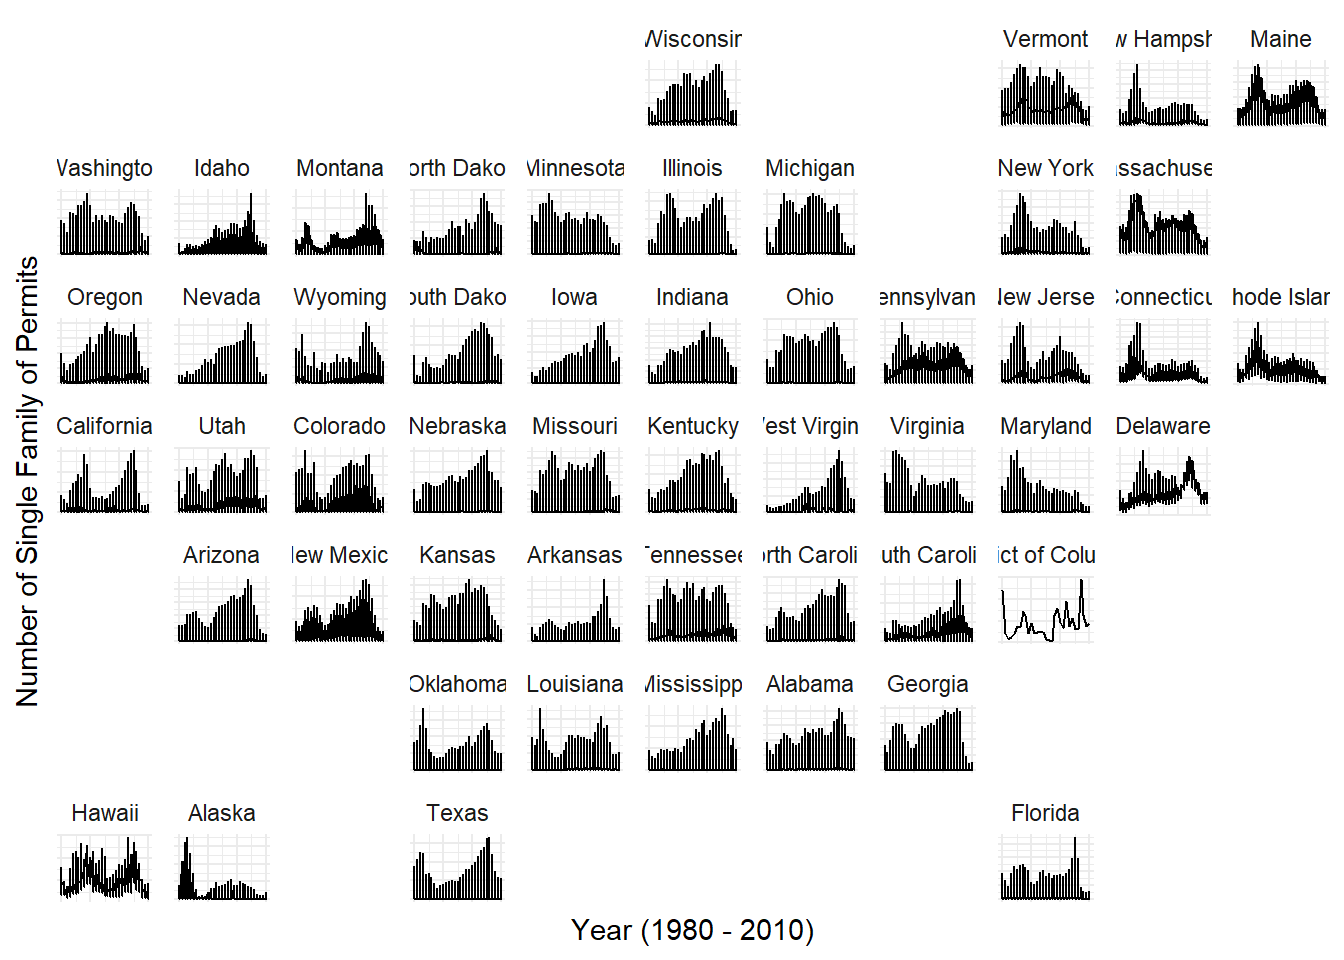
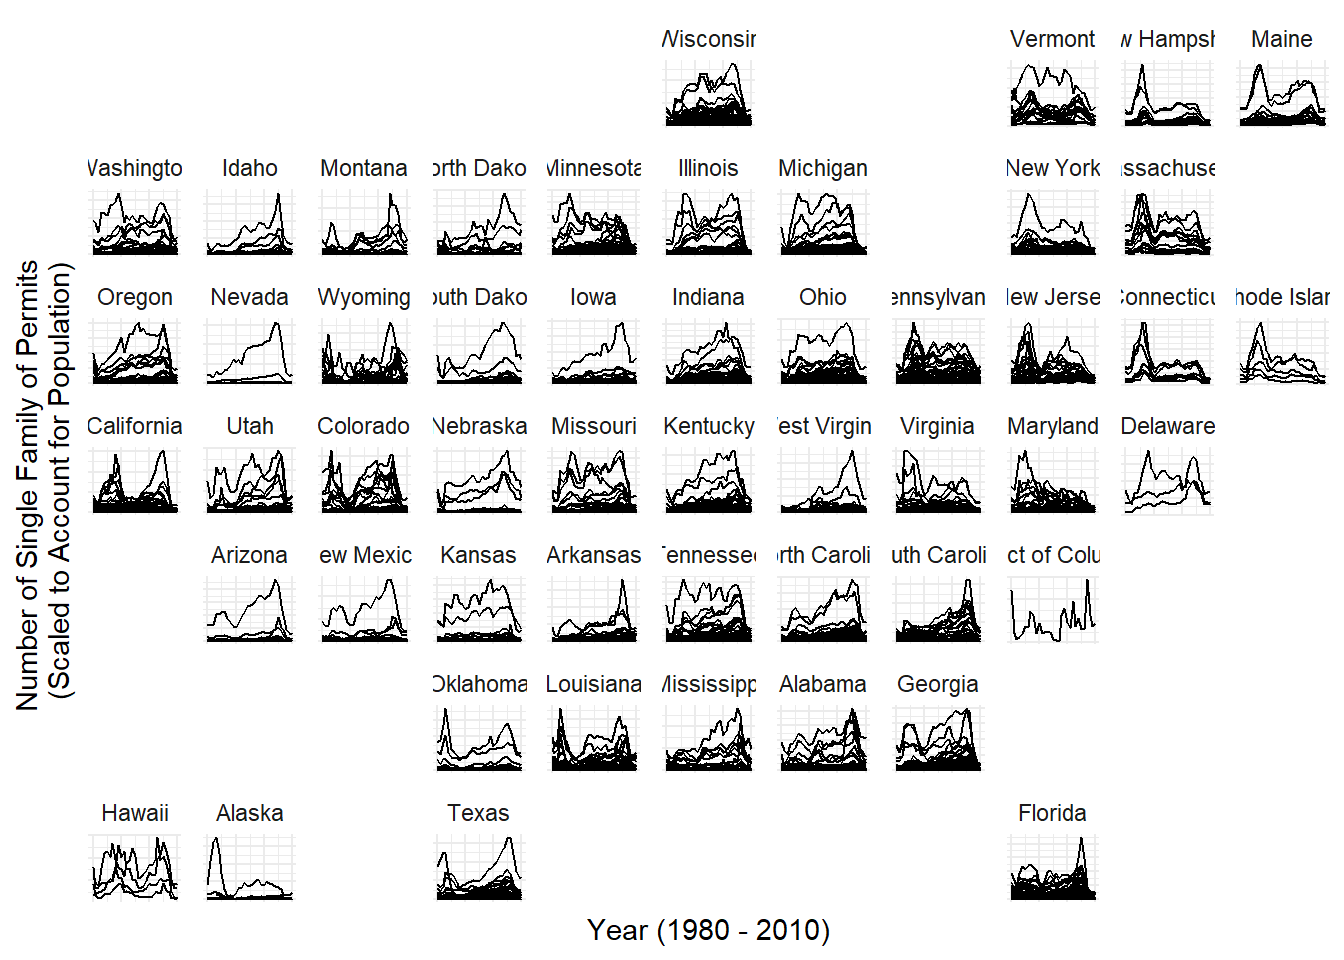
Added group = county and more detailed x-axis titles

diff --git a/week_08/Building the Past.html b/week_08/Building the Past.html
@@ -161,11 +161,11 @@ pre > code.sourceCode > span > a:first-child::before { text-decoration: underlin
 <div class="cell">
 <details class="code-fold">
 <summary>Code</summary>
-<div class="sourceCode cell-code" id="cb9"><pre class="sourceCode numberSource r number-lines code-with-copy"><code class="sourceCode r"><span id="cb9-1"><a href="#cb9-1"></a><span class="fu">ggplot</span>(single_family, <span class="fu">aes</span>(<span class="at">x =</span> year, <span class="at">y =</span> value)) <span class="sc">+</span></span>
+<div class="sourceCode cell-code" id="cb9"><pre class="sourceCode numberSource r number-lines code-with-copy"><code class="sourceCode r"><span id="cb9-1"><a href="#cb9-1"></a><span class="fu">ggplot</span>(single_family, <span class="fu">aes</span>(<span class="at">x =</span> year, <span class="at">y =</span> value, <span class="at">group =</span> county)) <span class="sc">+</span></span>
 <span id="cb9-2"><a href="#cb9-2"></a>  <span class="fu">geom_line</span>() <span class="sc">+</span></span>
 <span id="cb9-3"><a href="#cb9-3"></a>  <span class="fu">facet_geo</span>(<span class="at">facets =</span> <span class="sc">~</span>state_name, <span class="at">grid =</span> us_state_grid1, <span class="at">label =</span> <span class="cn">NULL</span>, <span class="at">scales =</span> <span class="st">"free_y"</span>) <span class="sc">+</span></span>
 <span id="cb9-4"><a href="#cb9-4"></a>  <span class="fu">labs</span>(<span class="at">x =</span> <span class="st">"Year (1980 - 2010)"</span>,</span>
-<span id="cb9-5"><a href="#cb9-5"></a>       <span class="at">y =</span> <span class="st">"Number of Single Family of Permits"</span>) <span class="sc">+</span> </span>
+<span id="cb9-5"><a href="#cb9-5"></a>       <span class="at">y =</span> <span class="st">"Number of Single Family of Permits </span><span class="sc">\n</span><span class="st">(Scaled to Account for Population)"</span>) <span class="sc">+</span> </span>
 <span id="cb9-6"><a href="#cb9-6"></a>  <span class="fu">scale_x_continuous</span>(<span class="at">labels =</span> <span class="cn">NULL</span>) <span class="sc">+</span></span>
 <span id="cb9-7"><a href="#cb9-7"></a>  <span class="fu">scale_y_continuous</span>(<span class="at">labels =</span> <span class="cn">NULL</span>) <span class="sc">+</span></span>
 <span id="cb9-8"><a href="#cb9-8"></a>  <span class="fu">theme_minimal</span>()</span></code><button title="Copy to Clipboard" class="code-copy-button"><i class="bi"></i></button></pre></div>
@@ -177,6 +177,10 @@ pre > code.sourceCode > span > a:first-child::before { text-decoration: underlin
 </figure>
 </div>
 </div>
+<details class="code-fold">
+<summary>Code</summary>
+<div class="sourceCode cell-code" id="cb10"><pre class="sourceCode numberSource r number-lines code-with-copy"><code class="sourceCode r"><span id="cb10-1"><a href="#cb10-1"></a><span class="co"># maybe group by county in aes to create the right geom_line</span></span></code><button title="Copy to Clipboard" class="code-copy-button"><i class="bi"></i></button></pre></div>
+</details>
 </div>
 </section>
 <section id="single-family-permits-across-oregon-counties" class="level2">
@@ -184,17 +188,17 @@ pre > code.sourceCode > span > a:first-child::before { text-decoration: underlin
 <div class="cell">
 <details class="code-fold">
 <summary>Code</summary>
-<div class="sourceCode cell-code" id="cb10"><pre class="sourceCode numberSource r number-lines code-with-copy"><code class="sourceCode r"><span id="cb10-1"><a href="#cb10-1"></a><span class="fu">ggplot</span>(ORpermits, <span class="fu">aes</span>(<span class="at">x =</span> year, <span class="at">y =</span> value)) <span class="sc">+</span></span>
-<span id="cb10-2"><a href="#cb10-2"></a>  <span class="fu">geom_line</span>() <span class="sc">+</span></span>
-<span id="cb10-3"><a href="#cb10-3"></a>  <span class="fu">facet_geo</span>(<span class="at">facets =</span> <span class="sc">~</span>name,</span>
-<span id="cb10-4"><a href="#cb10-4"></a>            <span class="at">grid =</span> us_or_counties_grid1,</span>
-<span id="cb10-5"><a href="#cb10-5"></a>            <span class="at">label =</span> <span class="cn">NULL</span>,</span>
-<span id="cb10-6"><a href="#cb10-6"></a>            <span class="at">scale =</span> <span class="st">"free_y"</span>) <span class="sc">+</span></span>
-<span id="cb10-7"><a href="#cb10-7"></a>  <span class="fu">scale_x_continuous</span>(<span class="at">labels =</span> <span class="cn">NULL</span>) <span class="sc">+</span></span>
-<span id="cb10-8"><a href="#cb10-8"></a>  <span class="fu">scale_y_continuous</span>(<span class="at">labels =</span> <span class="cn">NULL</span>) <span class="sc">+</span></span>
-<span id="cb10-9"><a href="#cb10-9"></a>    <span class="fu">labs</span>(<span class="at">x =</span> <span class="st">"Year (1980 - 2010"</span>,</span>
-<span id="cb10-10"><a href="#cb10-10"></a>         <span class="at">y =</span> <span class="st">"Number of Single Family Permits"</span>) <span class="sc">+</span></span>
-<span id="cb10-11"><a href="#cb10-11"></a>    <span class="fu">theme_minimal</span>()</span></code><button title="Copy to Clipboard" class="code-copy-button"><i class="bi"></i></button></pre></div>
+<div class="sourceCode cell-code" id="cb11"><pre class="sourceCode numberSource r number-lines code-with-copy"><code class="sourceCode r"><span id="cb11-1"><a href="#cb11-1"></a><span class="fu">ggplot</span>(ORpermits, <span class="fu">aes</span>(<span class="at">x =</span> year, <span class="at">y =</span> value)) <span class="sc">+</span></span>
+<span id="cb11-2"><a href="#cb11-2"></a>  <span class="fu">geom_line</span>() <span class="sc">+</span></span>
+<span id="cb11-3"><a href="#cb11-3"></a>  <span class="fu">facet_geo</span>(<span class="at">facets =</span> <span class="sc">~</span>name,</span>
+<span id="cb11-4"><a href="#cb11-4"></a>            <span class="at">grid =</span> us_or_counties_grid1,</span>
+<span id="cb11-5"><a href="#cb11-5"></a>            <span class="at">label =</span> <span class="cn">NULL</span>,</span>
+<span id="cb11-6"><a href="#cb11-6"></a>            <span class="at">scale =</span> <span class="st">"free_y"</span>) <span class="sc">+</span></span>
+<span id="cb11-7"><a href="#cb11-7"></a>  <span class="fu">scale_x_continuous</span>(<span class="at">labels =</span> <span class="cn">NULL</span>) <span class="sc">+</span></span>
+<span id="cb11-8"><a href="#cb11-8"></a>  <span class="fu">scale_y_continuous</span>(<span class="at">labels =</span> <span class="cn">NULL</span>) <span class="sc">+</span></span>
+<span id="cb11-9"><a href="#cb11-9"></a>    <span class="fu">labs</span>(<span class="at">x =</span> <span class="st">"Year (1980 - 2010"</span>,</span>
+<span id="cb11-10"><a href="#cb11-10"></a>         <span class="at">y =</span> <span class="st">"Number of Single Family Permits </span><span class="sc">\n</span><span class="st">(Scaled to Account for Population)"</span>) <span class="sc">+</span></span>
+<span id="cb11-11"><a href="#cb11-11"></a>    <span class="fu">theme_minimal</span>()</span></code><button title="Copy to Clipboard" class="code-copy-button"><i class="bi"></i></button></pre></div>
 </details>
 <div class="cell-output-display">
 <div>

diff --git a/week_08/Building the Past.html.md b/week_08/Building the Past.html.md
@@ -98,18 +98,17 @@ ORpermits <- permits %>%
 :::
 
 
-
 ## Single Family Permits across the US
 
 
 ::: {.cell}
 
 ```{.r .cell-code}
-ggplot(single_family, aes(x = year, y = value)) +
+ggplot(single_family, aes(x = year, y = value, group = county)) +
   geom_line() +
   facet_geo(facets = ~state_name, grid = us_state_grid1, label = NULL, scales = "free_y") +
   labs(x = "Year (1980 - 2010)",
-       y = "Number of Single Family of Permits") + 
+       y = "Number of Single Family of Permits \n(Scaled to Account for Population)") + 
   scale_x_continuous(labels = NULL) +
   scale_y_continuous(labels = NULL) +
   theme_minimal()
@@ -118,8 +117,11 @@ ggplot(single_family, aes(x = year, y = value)) +
 ::: {.cell-output-display}
 ![](Building-the-Past_files/figure-html/unnamed-chunk-2-1.png){width=672}
 :::
-:::
 
+```{.r .cell-code}
+# maybe group by county in aes to create the right geom_line
+```
+:::
 
 
 ## Single Family Permits across Oregon Counties
@@ -137,7 +139,7 @@ ggplot(ORpermits, aes(x = year, y = value)) +
   scale_x_continuous(labels = NULL) +
   scale_y_continuous(labels = NULL) +
     labs(x = "Year (1980 - 2010",
-         y = "Number of Single Family Permits") +
+         y = "Number of Single Family Permits \n(Scaled to Account for Population)") +
     theme_minimal()
 ```
 
@@ -147,10 +149,9 @@ ggplot(ORpermits, aes(x = year, y = value)) +
 :::
 
 
-
 ## Conclusion
 
-Regardless of scale, each state experiences a drop in single family permits in the most recent years, mimicking the mortgage crisis around 2007-2010. Some states are smaller than others and have less noticeable changes over time, so the scale was adjusted to demonstrate that each state, whether heavily populated or not, experienced a significant decrease in permits. Each state was affected by the market crash. 
+Regardless of scale, each state experiences a drop in single family permits in the most recent years, mimicking the mortgage crisis around 2007-2010. Some states are smaller than others and have less noticeable changes over time, so the scale was adjusted to demonstrate that each state, whether heavily populated or not, experienced a significant decrease in permits. Each state was affected by the market crash.
 
 In Oregon, single family permits on a county level followed the same pattern. Each county that was still organized in the most recent decade experienced a decline in permits between 2007 - 2010 compared to the level they were at previously. Once again, the scale was adjusted to compensate for smaller county population levels and make comparison possible against larger counties.
 
